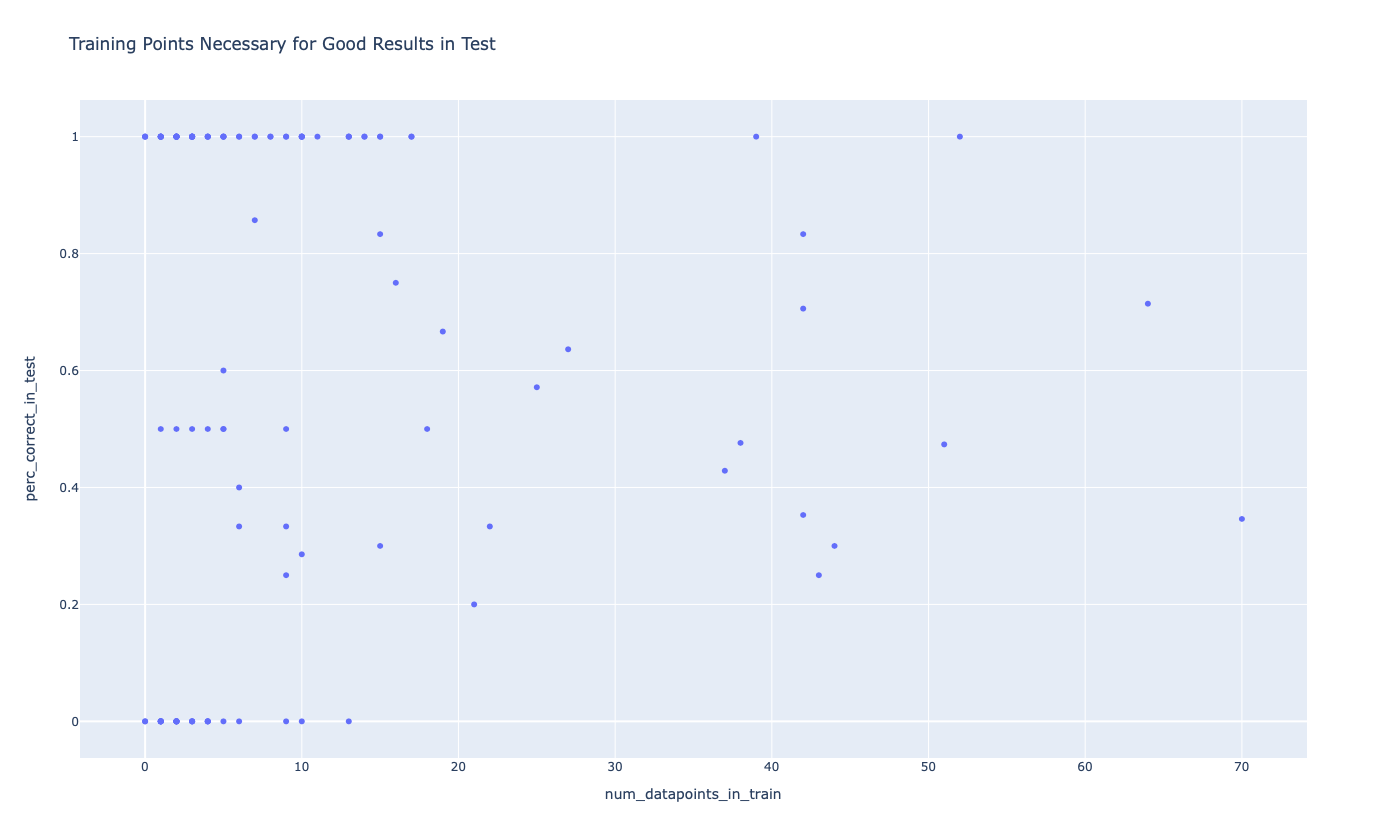
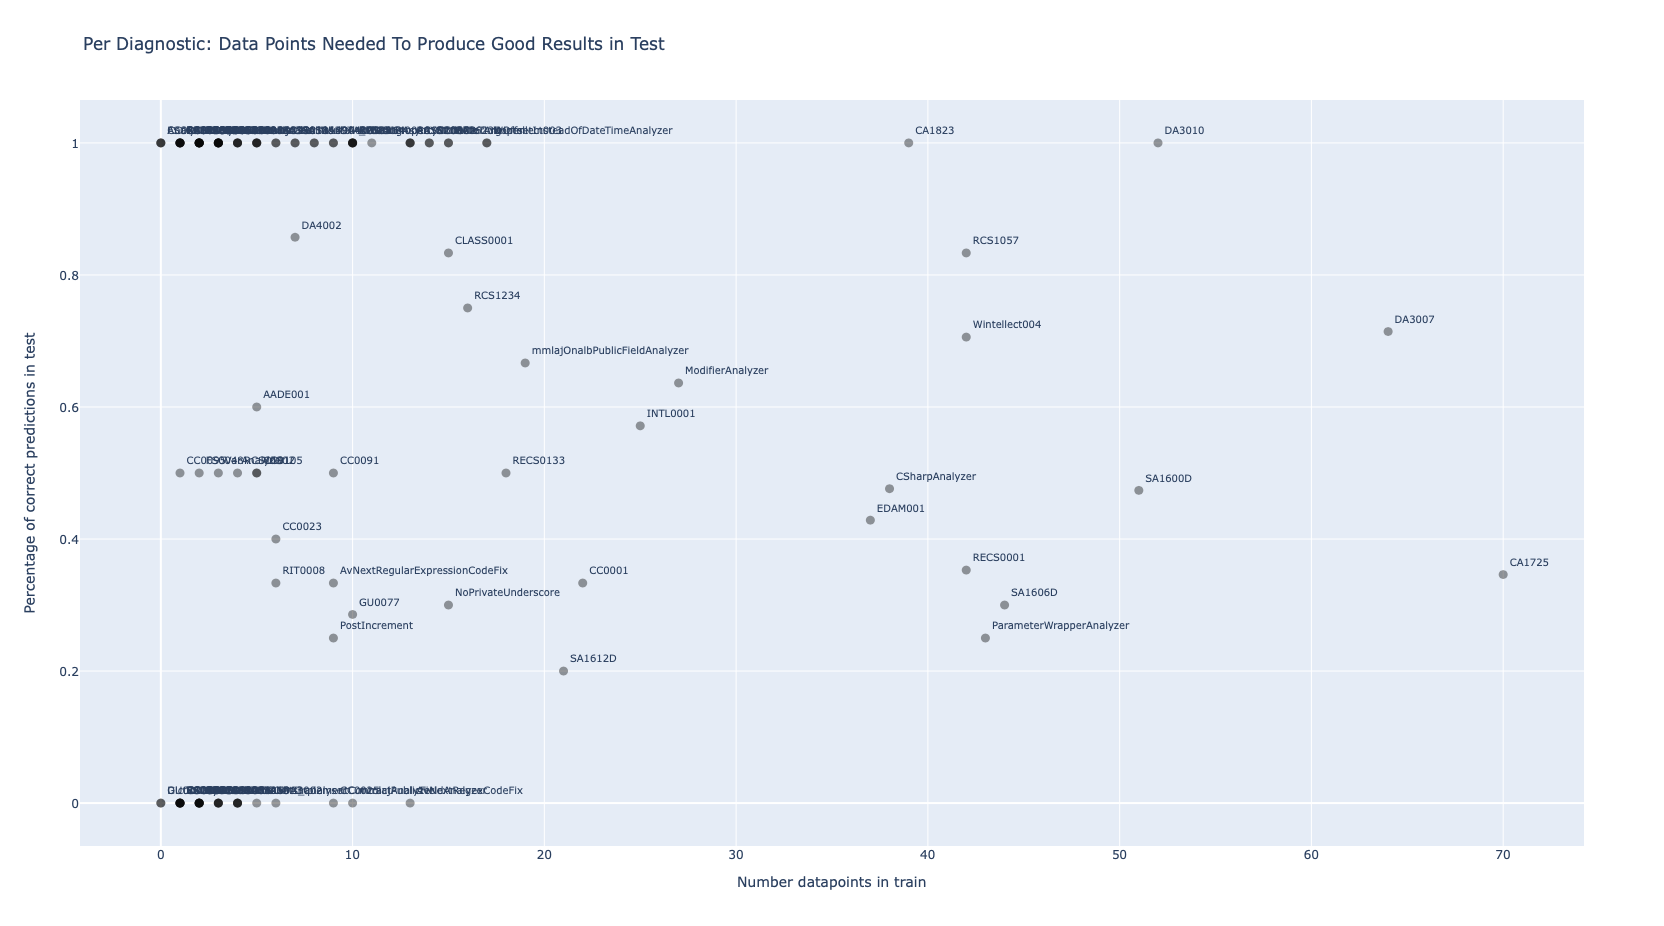
Added opacity + fixed labels + changed axes names

diff --git a/evaluate_nn_results.py b/evaluate_nn_results.py
@@ -388,12 +388,22 @@ def main():
     text = [datapoint["diagnostic_id"] for datapoint in datapoints_graph]
     fig = go.Figure(data=go.Scatter(x=x,
                                     y=y,
-                                    mode='markers',
+                                    # mode='markers',
+                                    marker=dict(
+                                        size=9,
+                                        color="rgba(5,5,5,0.4)", #set color equal to a variable
+                                        # colorscale='Viridis', # one of plotly colorscales
+                                        # showscale=True
+                                    ),
+                                    textposition='top right',
+                                    # textposition=[f"{random.choice(['top', 'bottom', 'middle'])} {random.choice(['left', 'right', 'center'])}" for datapoint in datapoints_graph],
+                                    textfont_size=10,
+                                    mode='text+markers',
                                     text=text))
     fig.update_layout(
-        title='Training Points Necessary for Good Results in Test')
-    fig.update_xaxes(title_text='num_datapoints_in_train')
-    fig.update_yaxes(title_text='perc_correct_in_test')
+        title="Per Diagnostic: Data Points Needed To Produce Good Results in Test")
+    fig.update_xaxes(title_text='Number datapoints in train')
+    fig.update_yaxes(title_text='Percentage of Correct Predictions in Test')
     fig.show()
 
     remove_redundant_data(evaluation_dict)
